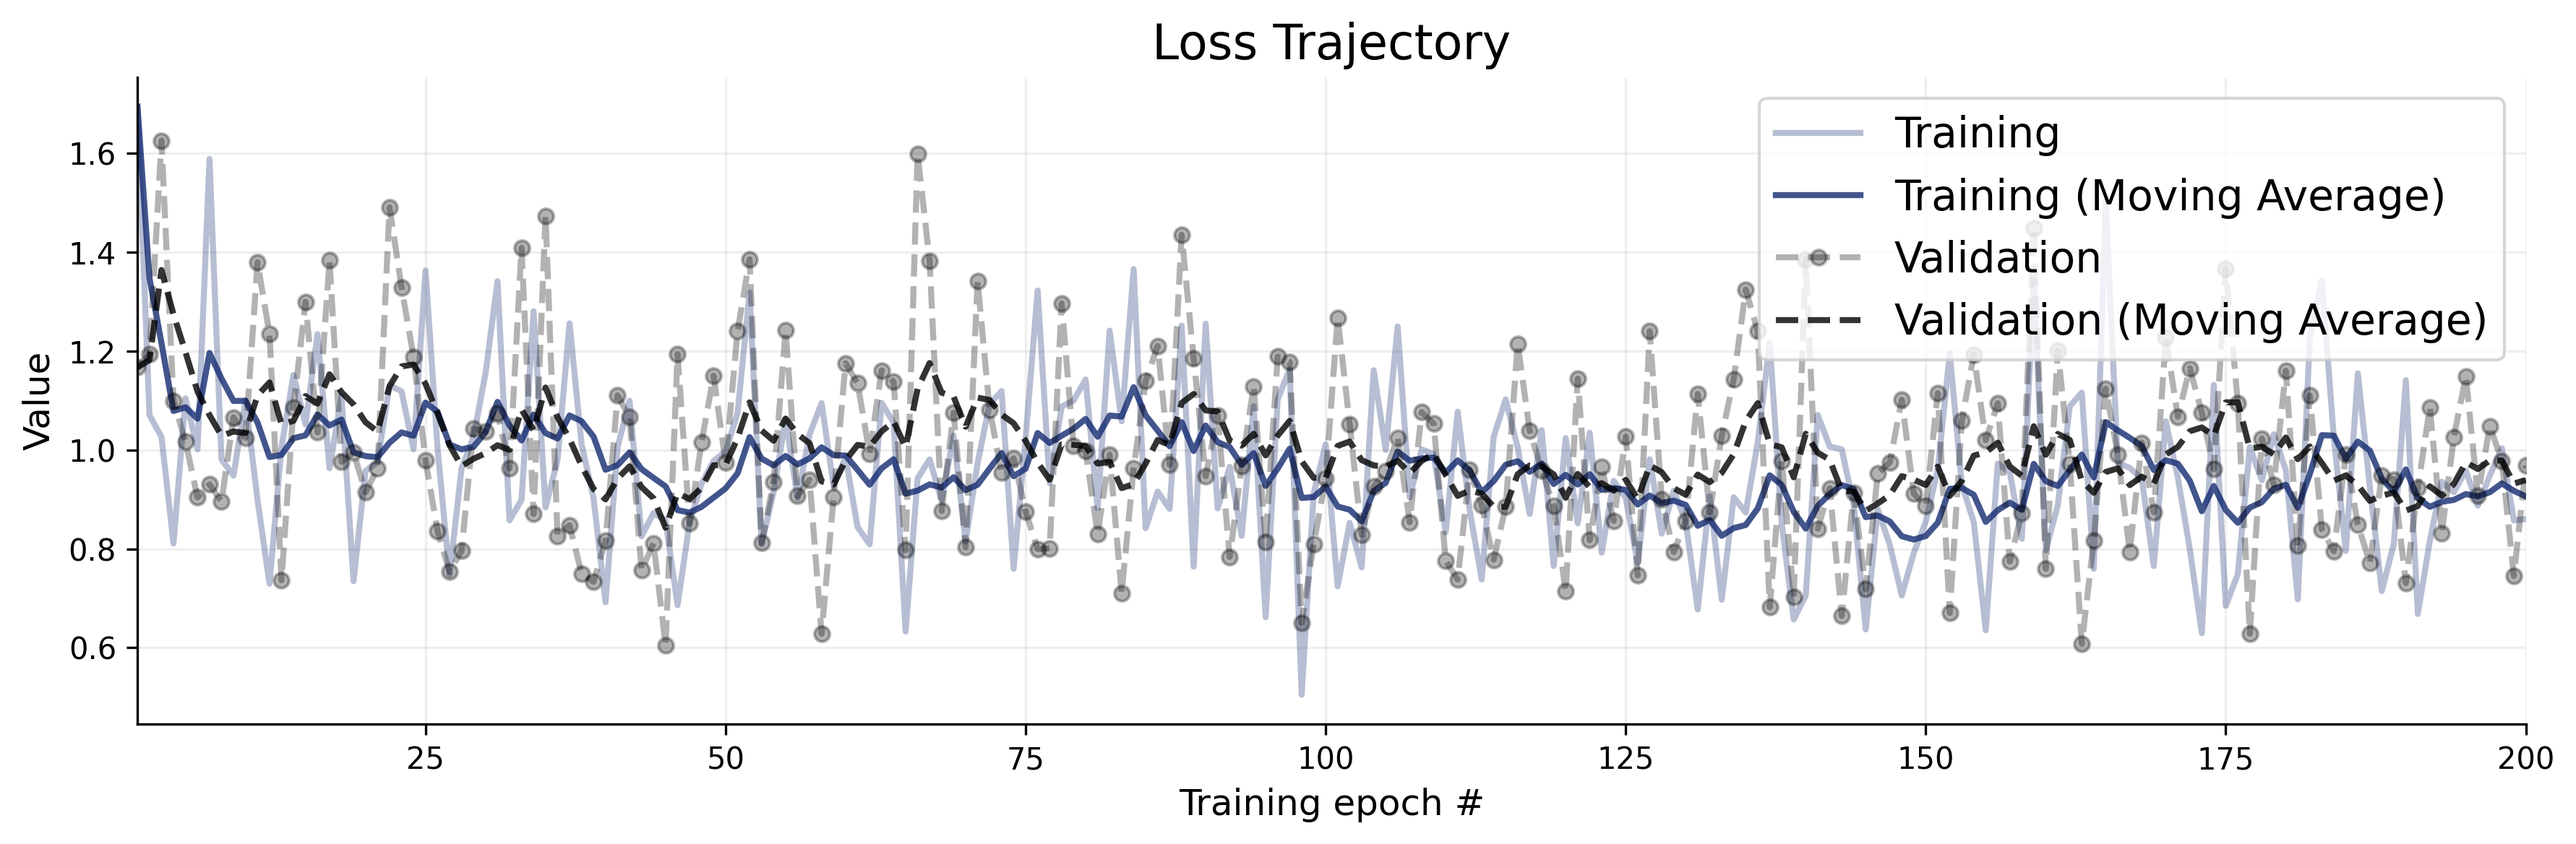
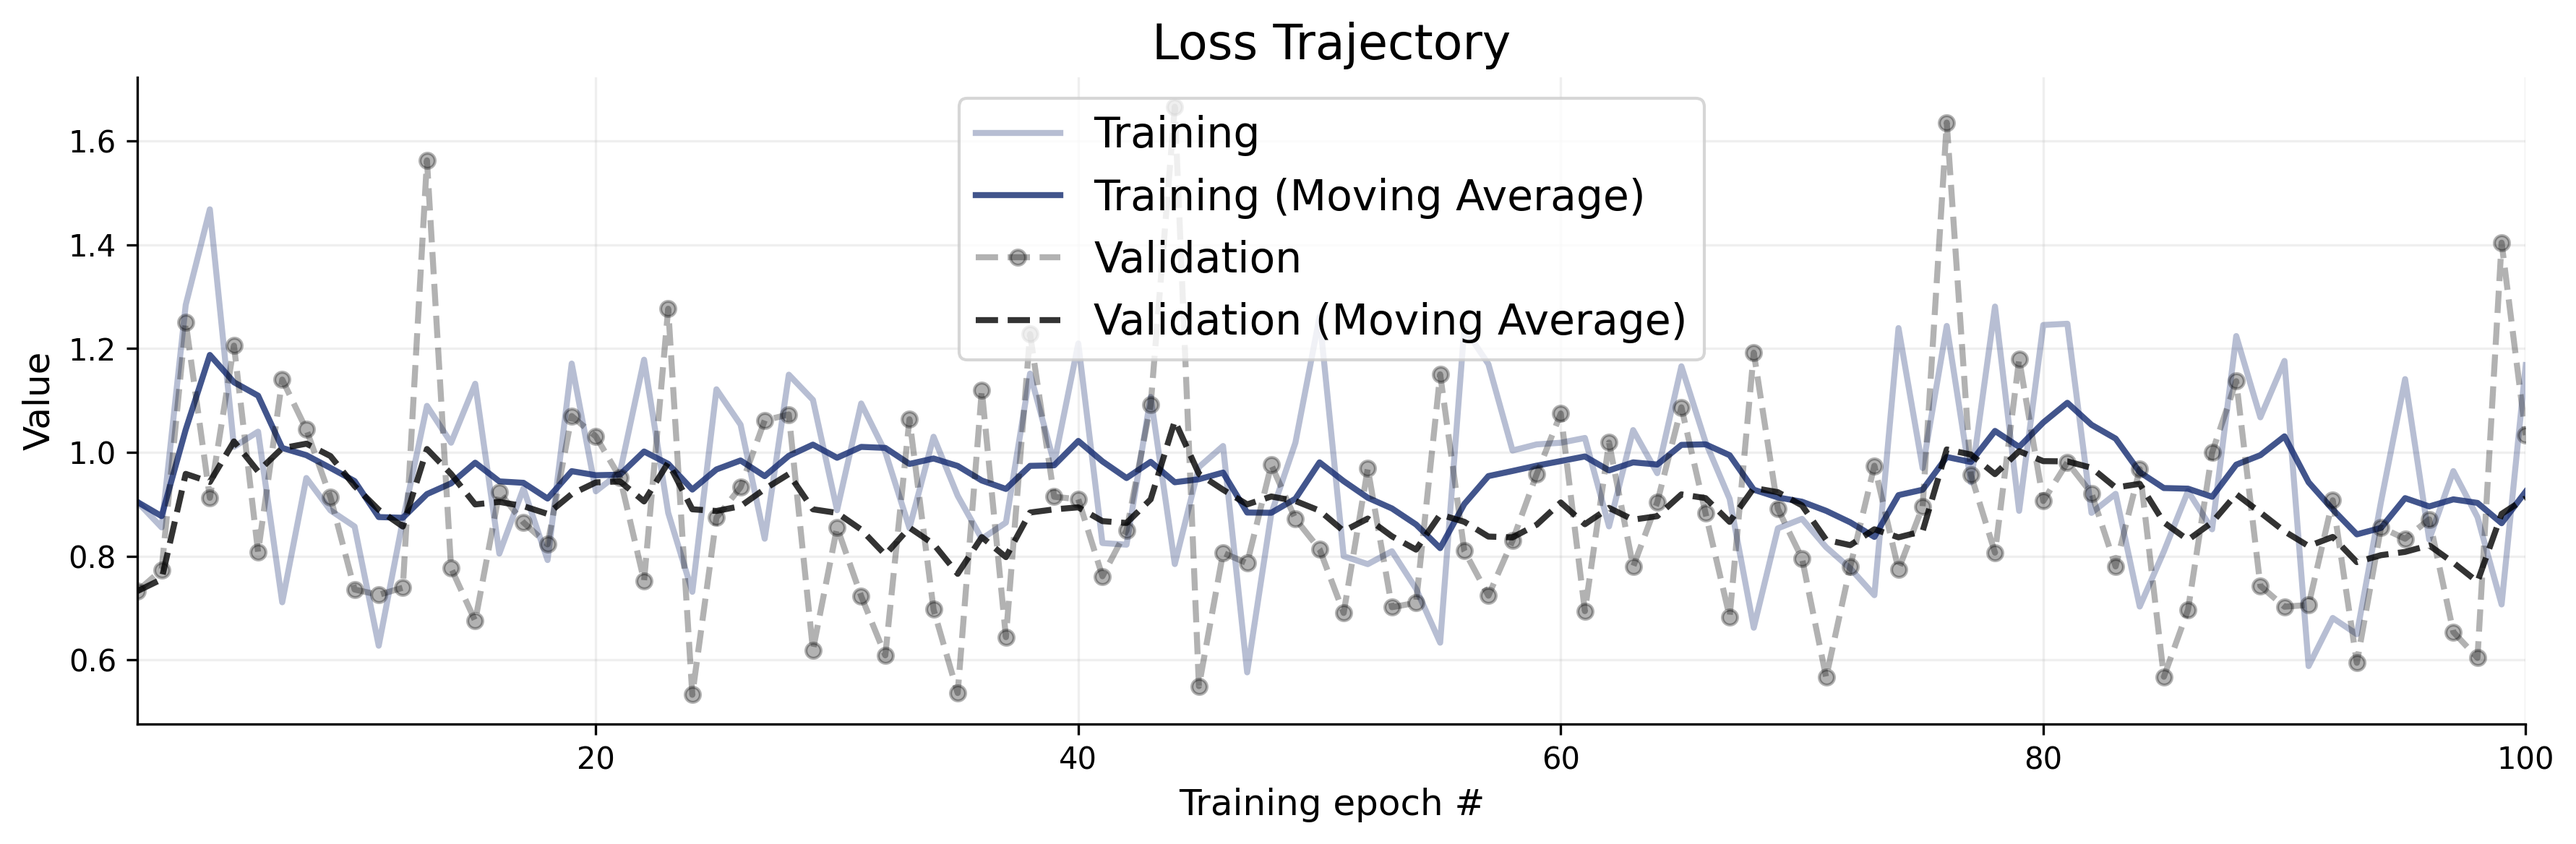
Multiple updates: * Add hierarchical network * Tweak priors * Update results

diff --git a/togetherflow/src/simulator.py b/togetherflow/src/simulator.py
@@ -8,16 +8,16 @@ from .priors import complete_pooling_prior
 
 @njit(parallel=True)
 def simulator_fun(
-        theta=None,
-        num_agents: int = 12,
-        num_beacons: int = 1,
-        room_size: tuple = (8, 10),
-        velocity: float = 1.0,
-        dt: float = 0.001,
-        influence_weight: float = 0.7,
-        sensing_radius: float = 10.0,
-        internal_focus: float = 0.1,
-        time_horizon: float = 30.
+    theta=None,
+    num_agents: int = 12,
+    num_beacons: int = 1,
+    room_size: tuple = (8, 10),
+    velocity: float = 1.0,
+    dt: float = 0.001,
+    influence_weight: float = 0.7,
+    sensing_radius: float = 10.0,
+    internal_focus: float = 0.1,
+    time_horizon: float = 30.
 ):
     """
     Run the simulation and store the time series of positions and orientations of agents.
@@ -104,16 +104,18 @@ def simulator_fun(
 
 class TogetherFlowSimulator:
 
-    def __init__(self,
-                 num_agents: int = 12,
-                 num_beacons: int = 1,
-                 room_size: tuple = (8, 10),
-                 dt: float = 0.001,
-                 internal_focus: float = 0.1,
-                 time_horizon: float = 30.,
-                 downsample: bool = False,
-                 downsample_factor: int = 10
-                 ):
+    def __init__(
+        self,
+        num_agents: int = 12,
+        num_beacons: int = 1,
+        room_size: tuple = (8, 10),
+        dt: float = 0.001,
+        internal_focus: float = 0.1,
+        time_horizon: float = 30.,
+        downsample: bool = False,
+        downsample_factor: int = 10,
+        gather: bool = True,
+    ):
         self.num_agents = num_agents
         self.num_beacons = num_beacons
         self.room_size = room_size
@@ -123,6 +125,7 @@ class TogetherFlowSimulator:
         self.downsample = downsample
         self.downsample_factor = downsample_factor
         self.num_timesteps = int(time_horizon / dt)
+        self.gather = gather
 
 
     def sample(self, batch_shape: int | tuple = (1,)) -> dict[str, np.ndarray]:
@@ -153,9 +156,14 @@ class TogetherFlowSimulator:
 
         B, T, A, D = samples.shape
 
-        positions = samples[:,:,:,0:2].reshape((B, T, A*2))
-        rotations = samples[:,:,:,2].reshape((B, T, A))
-        neighbors = samples[:,:,:,3].reshape((B, T, A))
+        if self.gather:
+            positions = samples[:,:,:,0:2].reshape((B, T, A*2))
+            rotations = samples[:,:,:,2].reshape((B, T, A))
+            neighbors = samples[:,:,:,3].reshape((B, T, A))
+        else:
+            positions = samples[:,:,:,0:2]
+            rotations = samples[:,:,:,2][..., None]
+            neighbors = samples[:,:,:,3][..., None]
 
         return dict(
             w = thetas[:,0][..., None],

diff --git a/togetherflow/experiments/tflow_complete_pooling.py b/togetherflow/experiments/tflow_complete_pooling.py
@@ -10,7 +10,7 @@ import numpy as np
 import matplotlib.pyplot as plt
 import bayesflow as bf
 
-from src import TogetherFlowSimulator, GRU, SummaryNet, TogetherNet
+from src import TogetherFlowSimulator, GRU, SummaryNet, TogetherNet, HierarchicalNetwork
 
 
 def save_npz_dict(d, path):
@@ -26,13 +26,17 @@ def load_npz_dict(path):
 
 if __name__ == "__main__":
 
+    debug = False
+    gather = True
+
     # Define simulator
     simulator = TogetherFlowSimulator(
         num_agents=49,
         num_beacons=4,
         dt=0.1,
         time_horizon=60.,
-        downsample_factor=1.
+        downsample_factor=1.,
+        gather=gather
     )
 
     # Define adapter
@@ -43,13 +47,23 @@ if __name__ == "__main__":
         .concatenate(["positions", "rotations", "neighbors"], into="summary_variables", axis=-1)
     )
 
+    if debug:
+        sample = adapter(simulator.sample((1,)))
+        print(sample["summary_variables"].shape)
+
     # Define networks
-    summary_net = SummaryNet(keras.Sequential([
+    summary_net = keras.Sequential([
         keras.layers.Conv1D(filters=32, kernel_size=2, strides=2, activation="swish"),
         keras.layers.Conv1D(filters=32, kernel_size=2, strides=2, activation="swish"),
         keras.layers.LSTM(512),
         keras.layers.Dense(64)
-    ]))
+    ])
+
+    # summary_net = HierarchicalNetwork([
+    #     keras.layers.TimeDistributed(keras.layers.LSTM(512)),
+    #     keras.layers.Lambda(lambda x: keras.ops.mean(x, axis=1))
+    # ])
+
     # summary_net = SummaryNet(keras.Sequential([
     #     keras.layers.Conv1D(filters=32, kernel_size=3, strides=2, activation="swish"),
     #     keras.layers.Conv1D(filters=32, kernel_size=3, strides=2, activation="swish"),
@@ -61,7 +75,7 @@ if __name__ == "__main__":
     # ]))
 
     # summary_net = GRU()
-    # summary_net = TogetherNet()
+
     inference_net = bf.networks.FlowMatching()
 
     # Set up workflow
@@ -74,8 +88,8 @@ if __name__ == "__main__":
 
     outdir = pathlib.Path("dataset")
     figure_dir = pathlib.Path("figures")
-    train_path = outdir / "train.npz"
-    val_path   = outdir / "val.npz"
+    train_path = outdir / ("train.npz" if gather else "train_0.npz")
+    val_path   = outdir / ("val.npz" if gather else "val_0.npz")
     meta_path  = outdir / "meta.json"
 
     if train_path.exists() and val_path.exists():
@@ -103,7 +117,7 @@ if __name__ == "__main__":
         data=training_set,
         validation_data=validation_set,
         batch_size=32,
-        epochs=200
+        epochs=100
     )
 
     # Diagnostics

diff --git a/togetherflow/src/influences.py b/togetherflow/src/influences.py
@@ -4,10 +4,10 @@ from .utils import count_neighbors, bound_agent_position
 
 @njit
 def external_influence(
-        agent_position,
-        beacon_position,
-        noise=False,
-        noise_amplitude=0.01
+    agent_position,
+    beacon_position,
+    noise=False,
+    noise_amplitude=0.01
 ):
     """
     Generate a drift-diffusion vector in 2D space for a single agent
@@ -49,12 +49,12 @@ def external_influence(
 
 @njit
 def internal_influence(
-        self_position,
-        other_positions,
-        other_rotations,
-        sensing_radius=1.5,
-        focus=0.01,
-        noise=False
+    self_position,
+    other_positions,
+    other_rotations,
+    sensing_radius=1.5,
+    focus=0.01,
+    noise=False
 ):
     """
     Generate an influence vector for a single agent
@@ -101,7 +101,7 @@ def internal_influence(
     if noise:
         deviation = (np.random.random() - 0.5) * focus
     else:
-        deviation = np.random.vonmises(mu=0., kappa=4.) * focus
+        deviation = np.random.normal(loc=0.0, scale=focus)
     direction = averaged_rotation + deviation
 
     v = np.array([np.cos(direction), np.sin(direction)], dtype=np.float32)
@@ -111,15 +111,15 @@ def internal_influence(
 
 @njit
 def combined_influences(
-        agent_positions: np.ndarray = None,
-        agent_rotations: np.ndarray = None,
-        beacon_positions: np.ndarray = None,
-        room_size: tuple = (8, 10),
-        velocity: float = 1.0,
-        sensing_radius: float = 2.5,
-        dt: float = 0.1,
-        influence_weight: float = 0.5,
-        internal_focus: float = 0.1
+    agent_positions: np.ndarray = None,
+    agent_rotations: np.ndarray = None,
+    beacon_positions: np.ndarray = None,
+    room_size: tuple = (8, 10),
+    velocity: float = 1.0,
+    sensing_radius: float = 2.5,
+    dt: float = 0.1,
+    influence_weight: float = 0.5,
+    internal_focus: float = 0.1
 ):
     """
     Update the positions and orientations of a single agent

diff --git a/togetherflow/src/hierarchical_network.py b/togetherflow/src/hierarchical_network.py
@@ -1,0 +1,23 @@
+import keras
+from bayesflow.networks import SummaryNetwork
+from bayesflow.utils.serialization import serializable
+
+@serializable("bayesflow.networks")
+class HierarchicalNetwork(SummaryNetwork):
+    def __init__(self, networks, **kwargs):
+        super().__init__(**kwargs)
+        self.networks = list(networks)
+        self._final_output_shape = None
+
+
+    def call(self, x, return_all=False, **kwargs):
+        if return_all:
+            outputs = []
+            for network in self.networks:
+                x = network(x, **kwargs)
+                outputs.append(x)
+            return outputs
+        else:
+            for network in self.networks:
+                x = network(x, **kwargs)
+            return x

diff --git a/togetherflow/src/priors.py b/togetherflow/src/priors.py
@@ -5,7 +5,8 @@ from numba import njit
 @njit
 def complete_pooling_prior():
     weight = np.random.beta(2., 2.)
-    radius = np.random.lognormal(0., 0.25)
+    radius = np.random.gamma(5., 1.)
+    # radius = np.random.lognormal(0., 0.25)
     v = np.random.beta(2., 2.) * 2.
     #focus = np.random.beta(2, 5)
     return np.array([weight, radius, v], dtype=np.float32)
